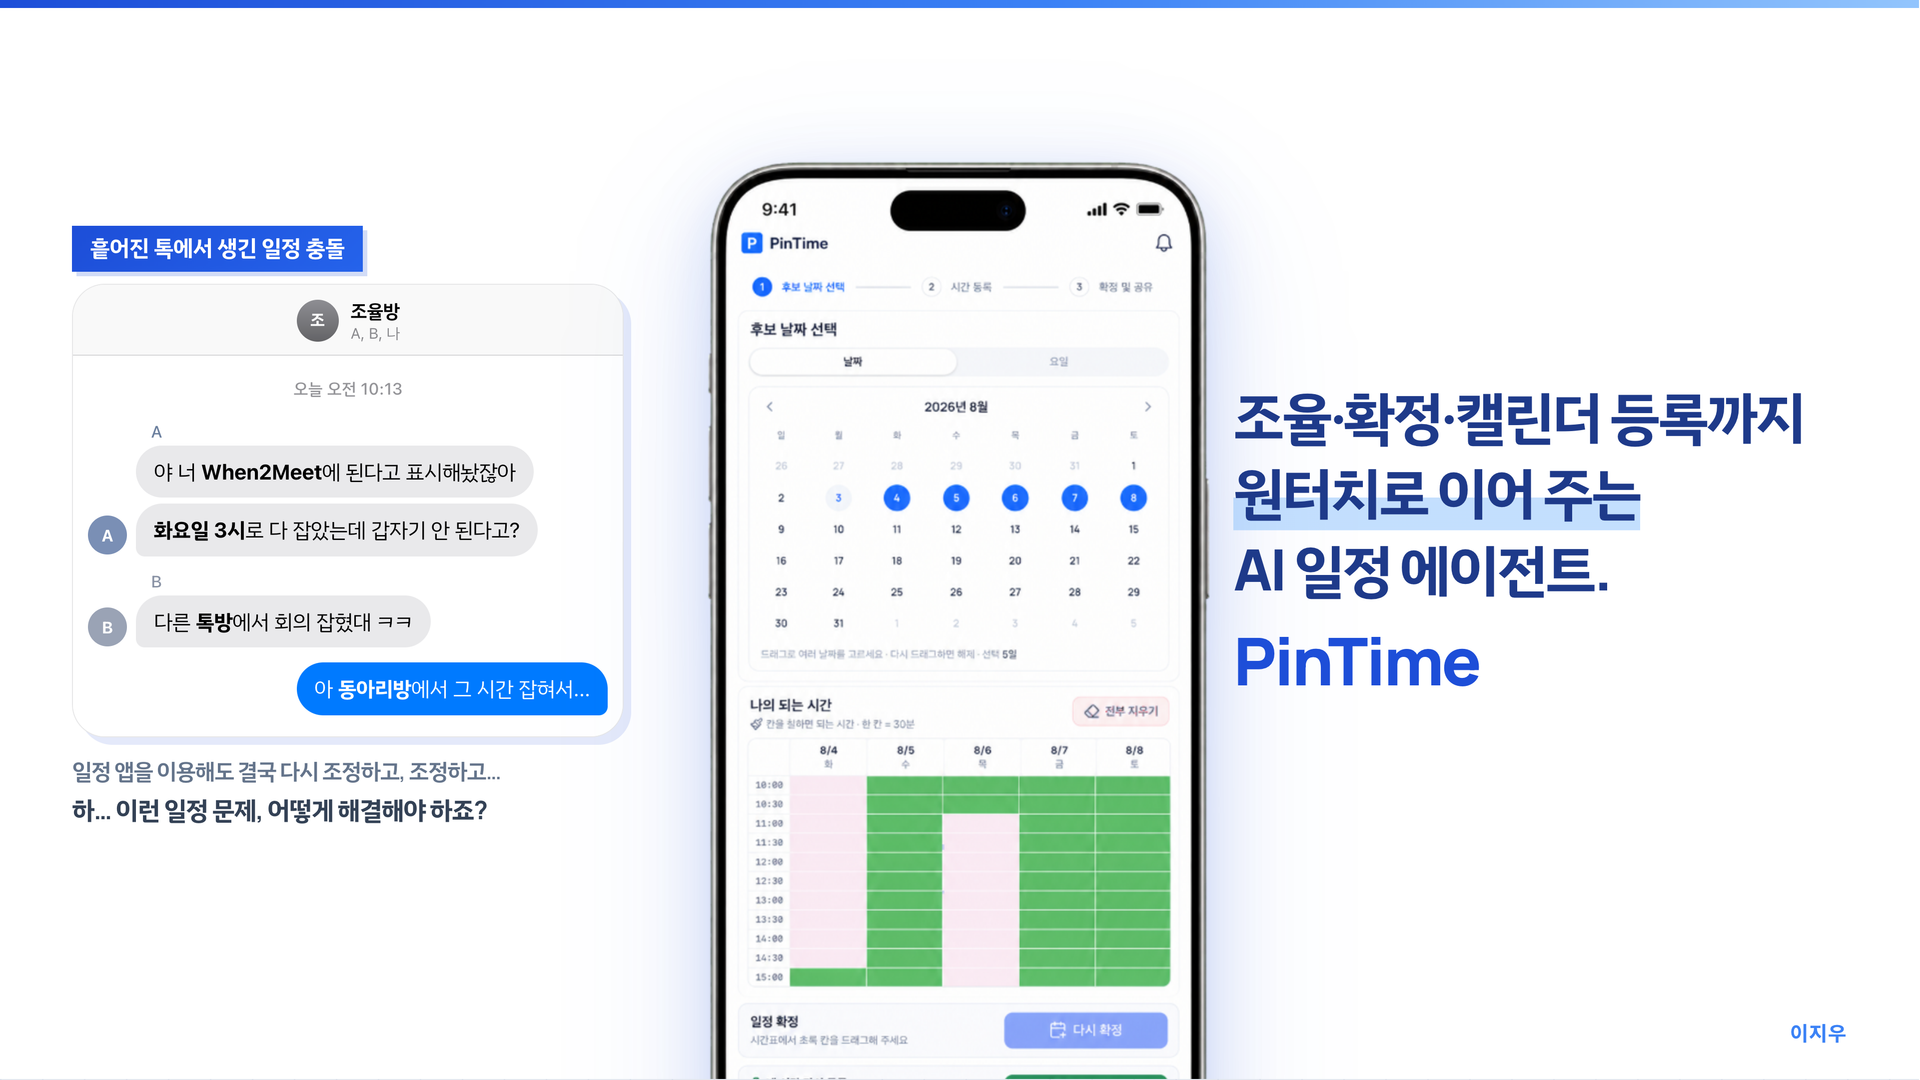
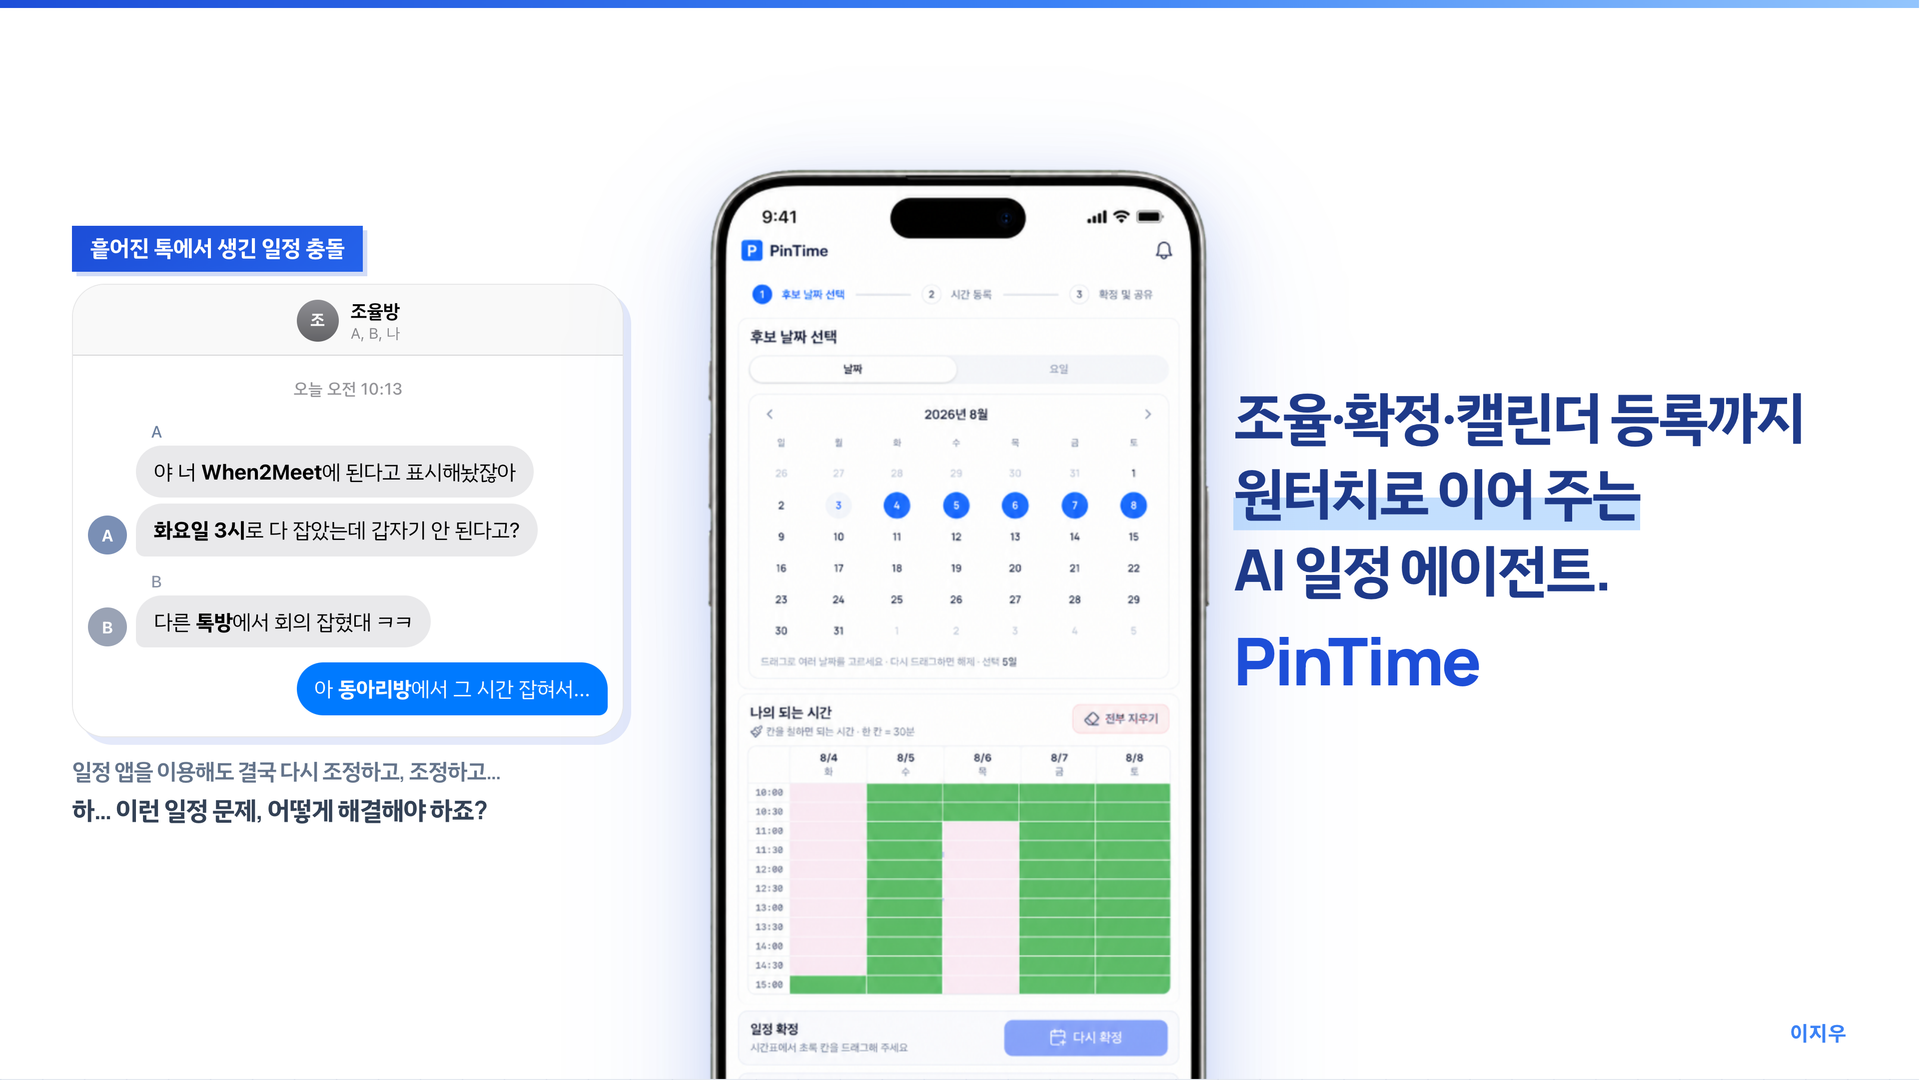
Nudge cover phone down 5px.

diff --git a/public/pitch.html b/public/pitch.html
@@ -1438,7 +1438,7 @@
         justify-self: center;
         overflow: visible;
         width: 100%;
-        transform: translateY(108px);
+        transform: translateY(113px);
       }
 
       .cover-phone {
